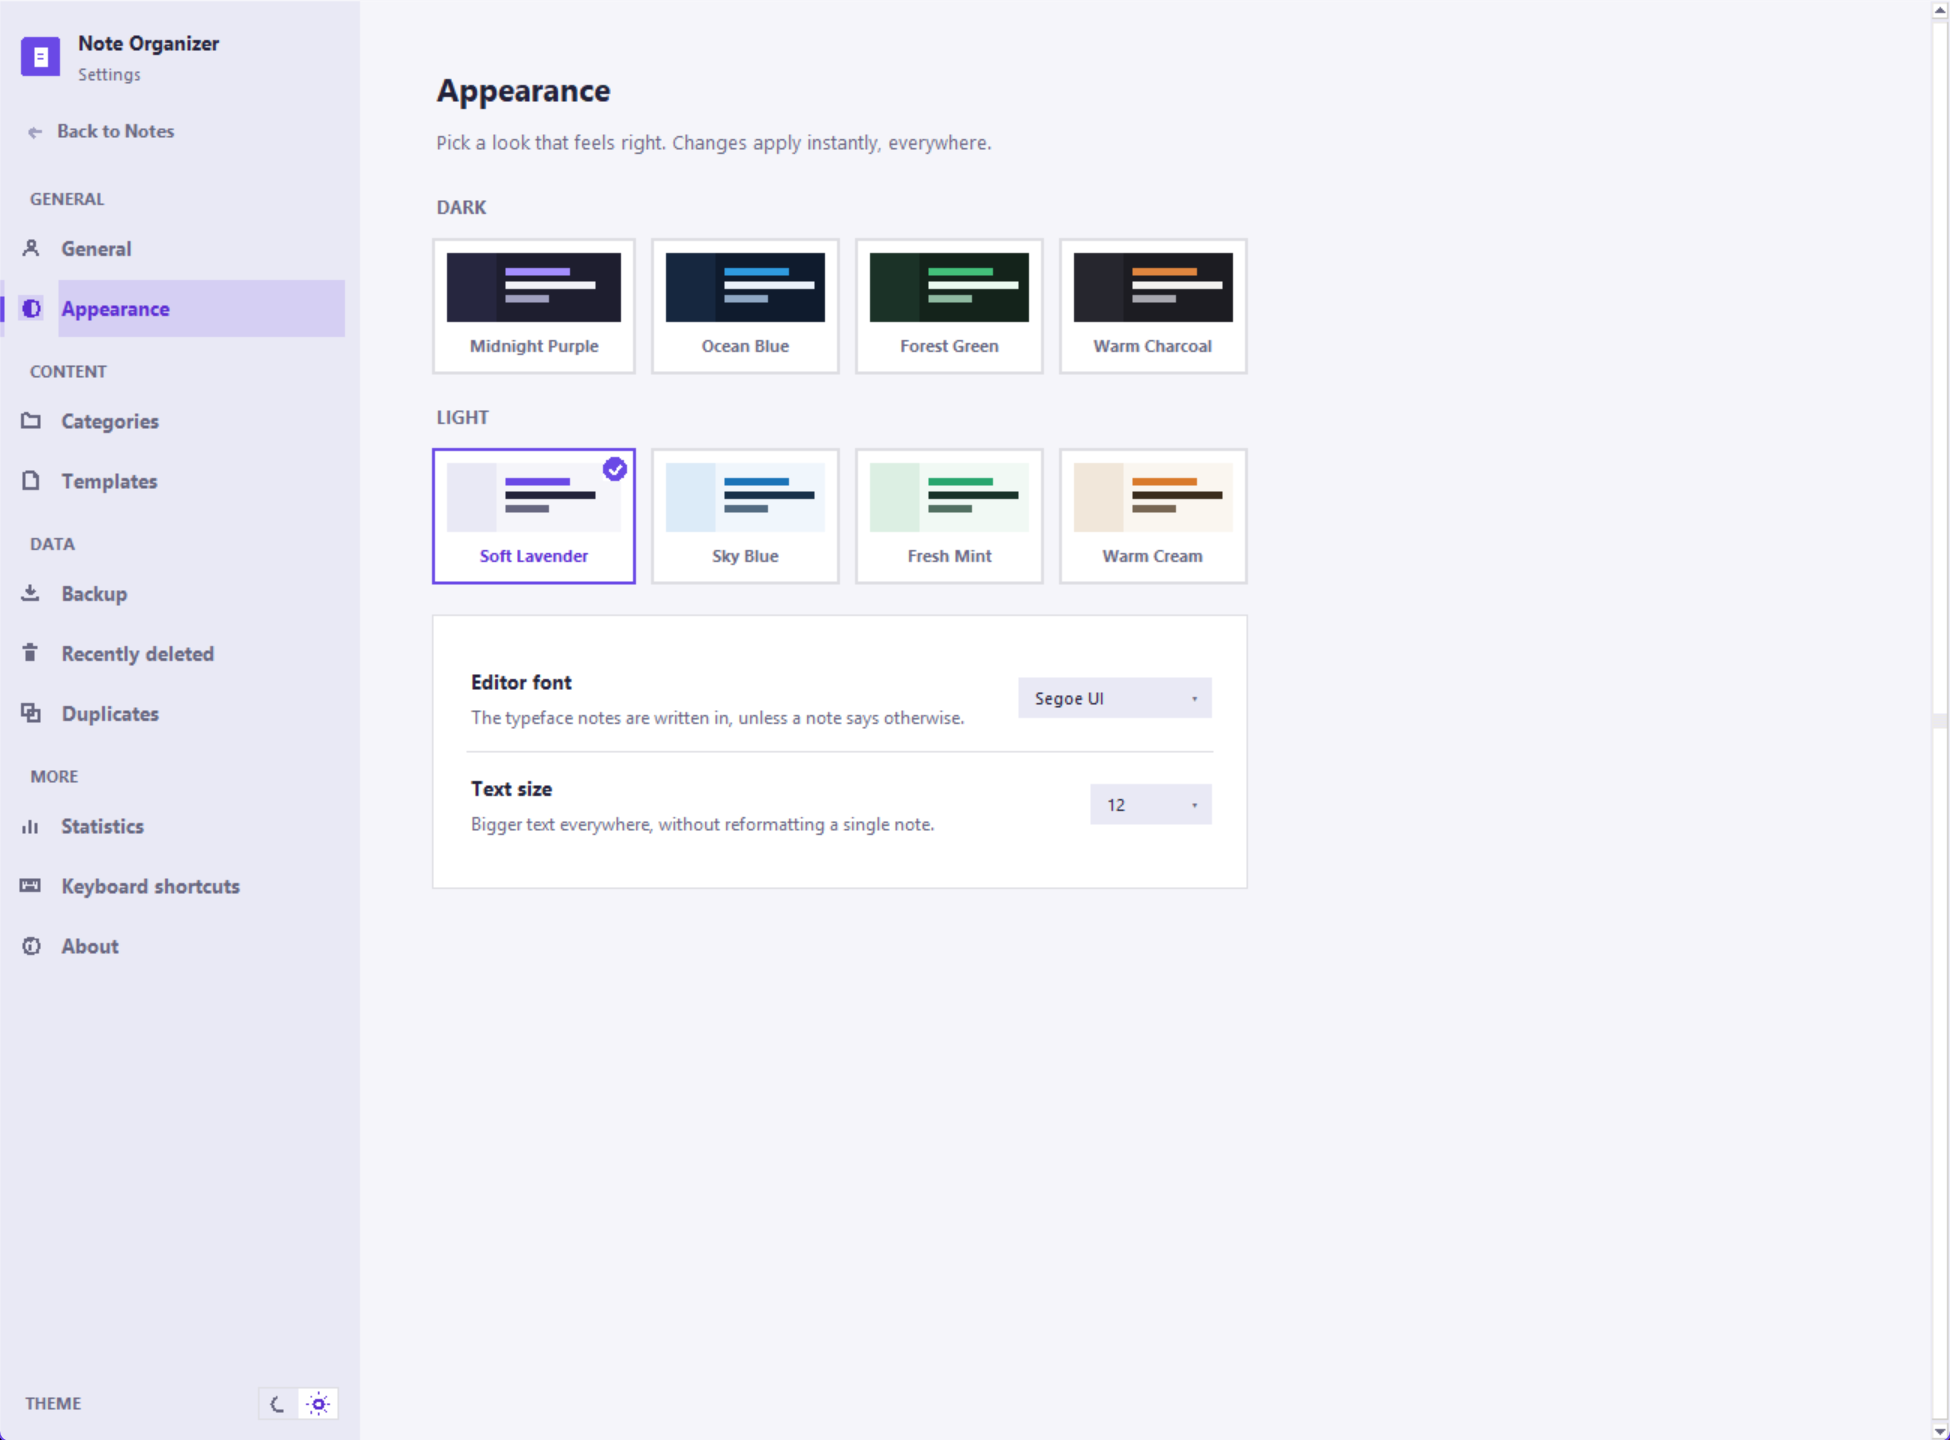
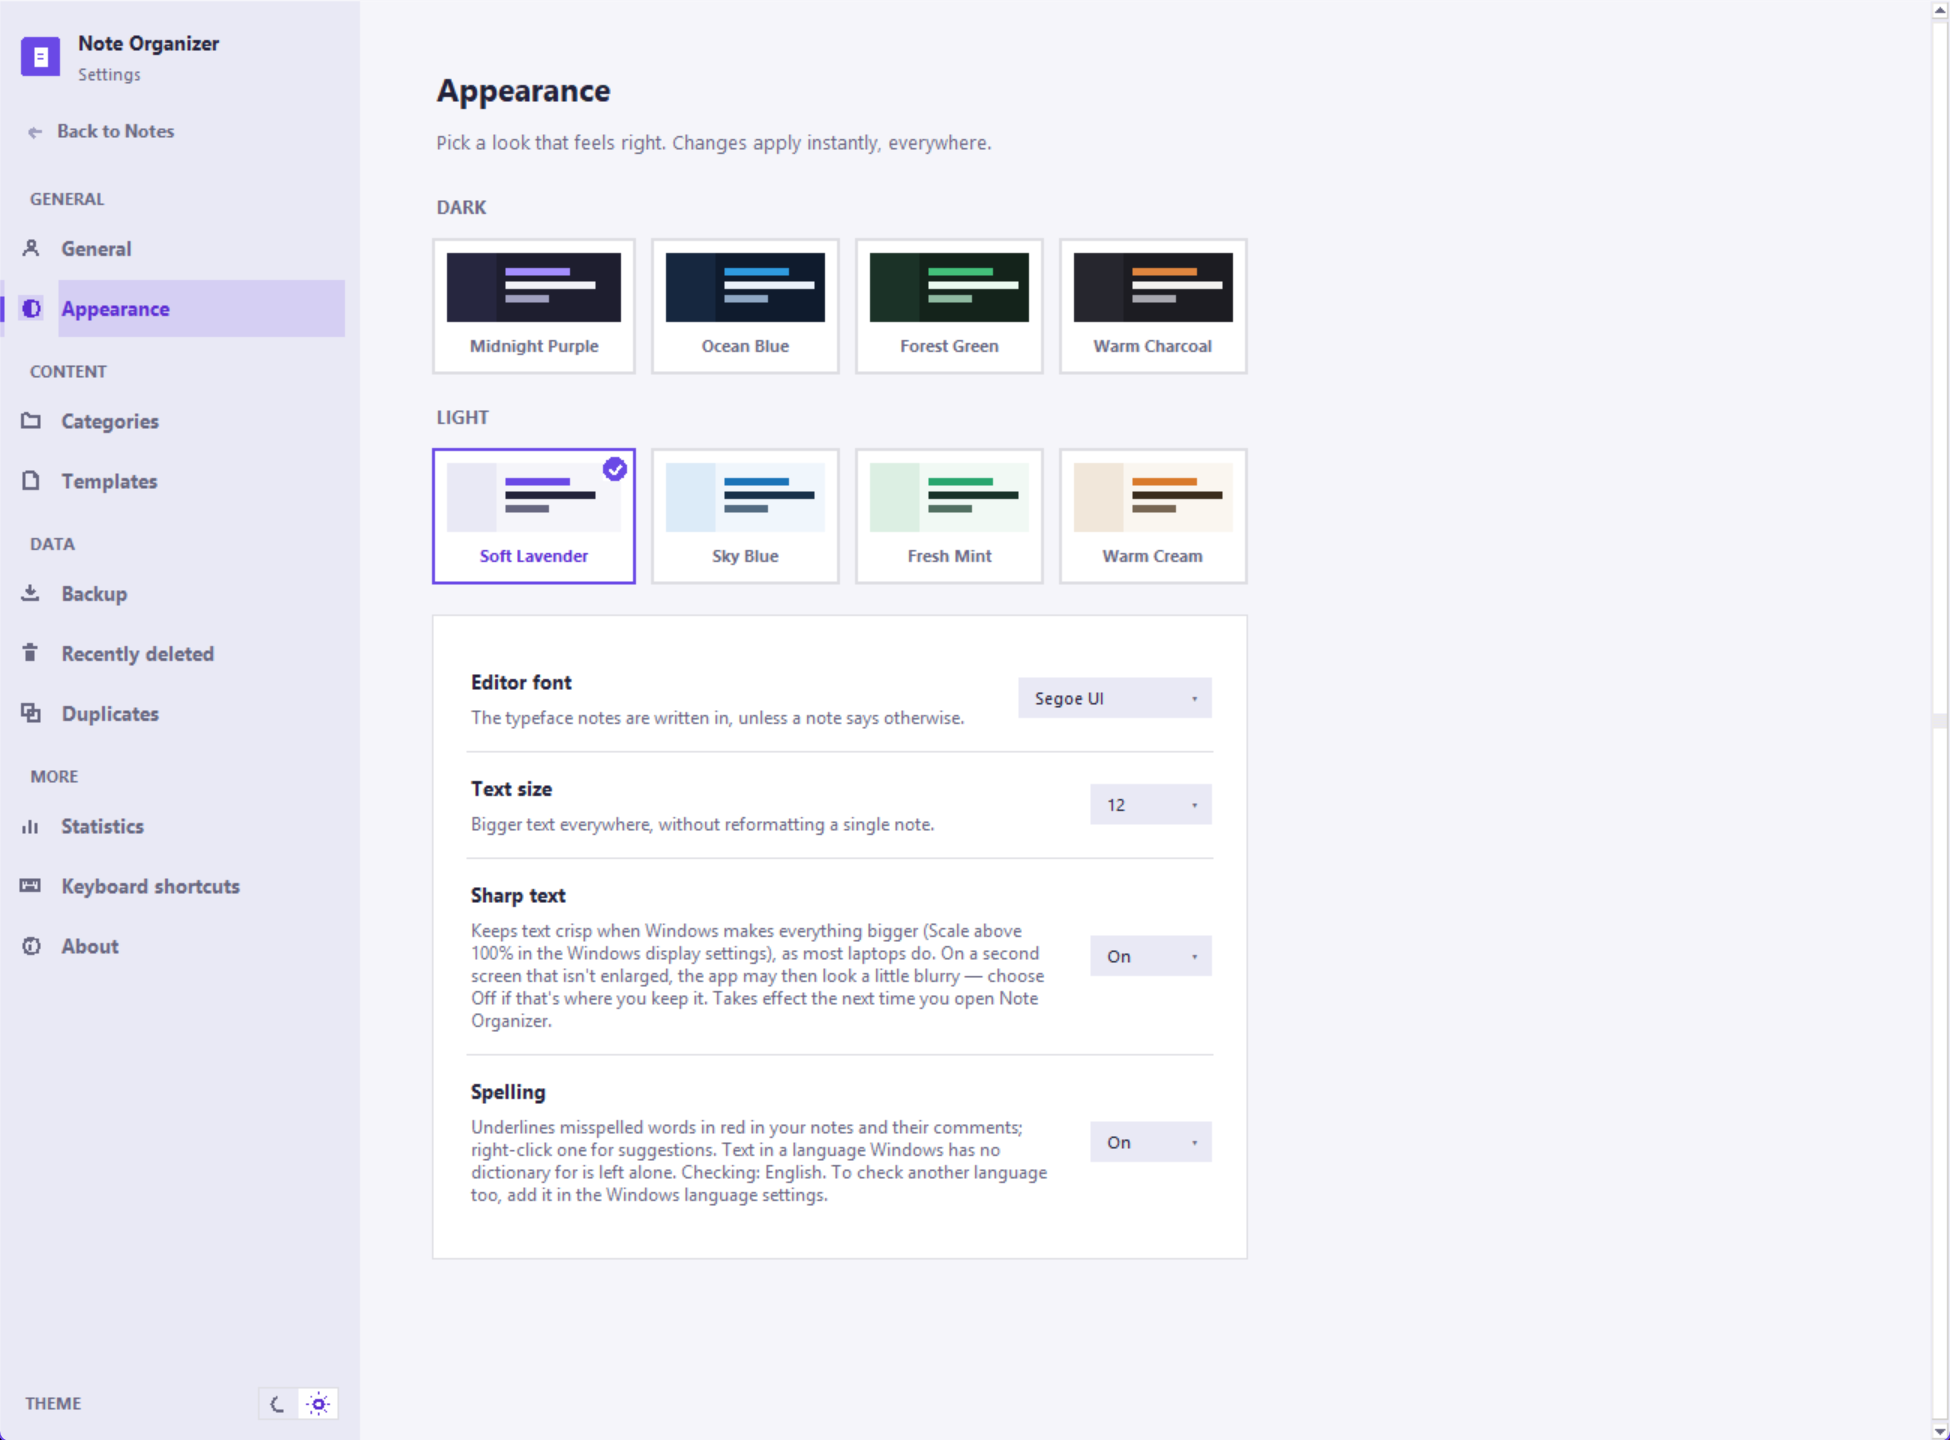
docs: the Appearance screenshot retaken with Sharp text and Spelling
The picture was taken on 0.89.371, before the two rows existed, and sits
in the guide right above the text describing them. Retaken by
tools/doc_screenshots.py (scene theme-picker) from a scratch copy, the
window checked uncovered before the shutter; the screenshots README
records it.

Changed region(s): [[0.2462, 0.5938, 0.5538, 0.7188], [0.2462, 0.75, 0.5231, 0.8438]]

diff --git a/docs/screenshots/README.md b/docs/screenshots/README.md
@@ -69,7 +69,9 @@ day first, both calendar pictures on the month they stage and nothing cut
 at the bottom edge. On 2026-10-09 the search picture was retaken with three
 matches, Statistics with a "since" date inside the app's own lifetime, and
 two were added (the main window on a light theme, a search that matches
-nothing). Update this line whenever the set is recaptured.
+nothing). On 2026-10-15 `theme-picker.png` was retaken by the same script,
+on 0.94.379, to show the Sharp text and Spelling rows added since. Update
+this line whenever the set is recaptured.
 
 | Filename | What to capture |
 |---|---|
